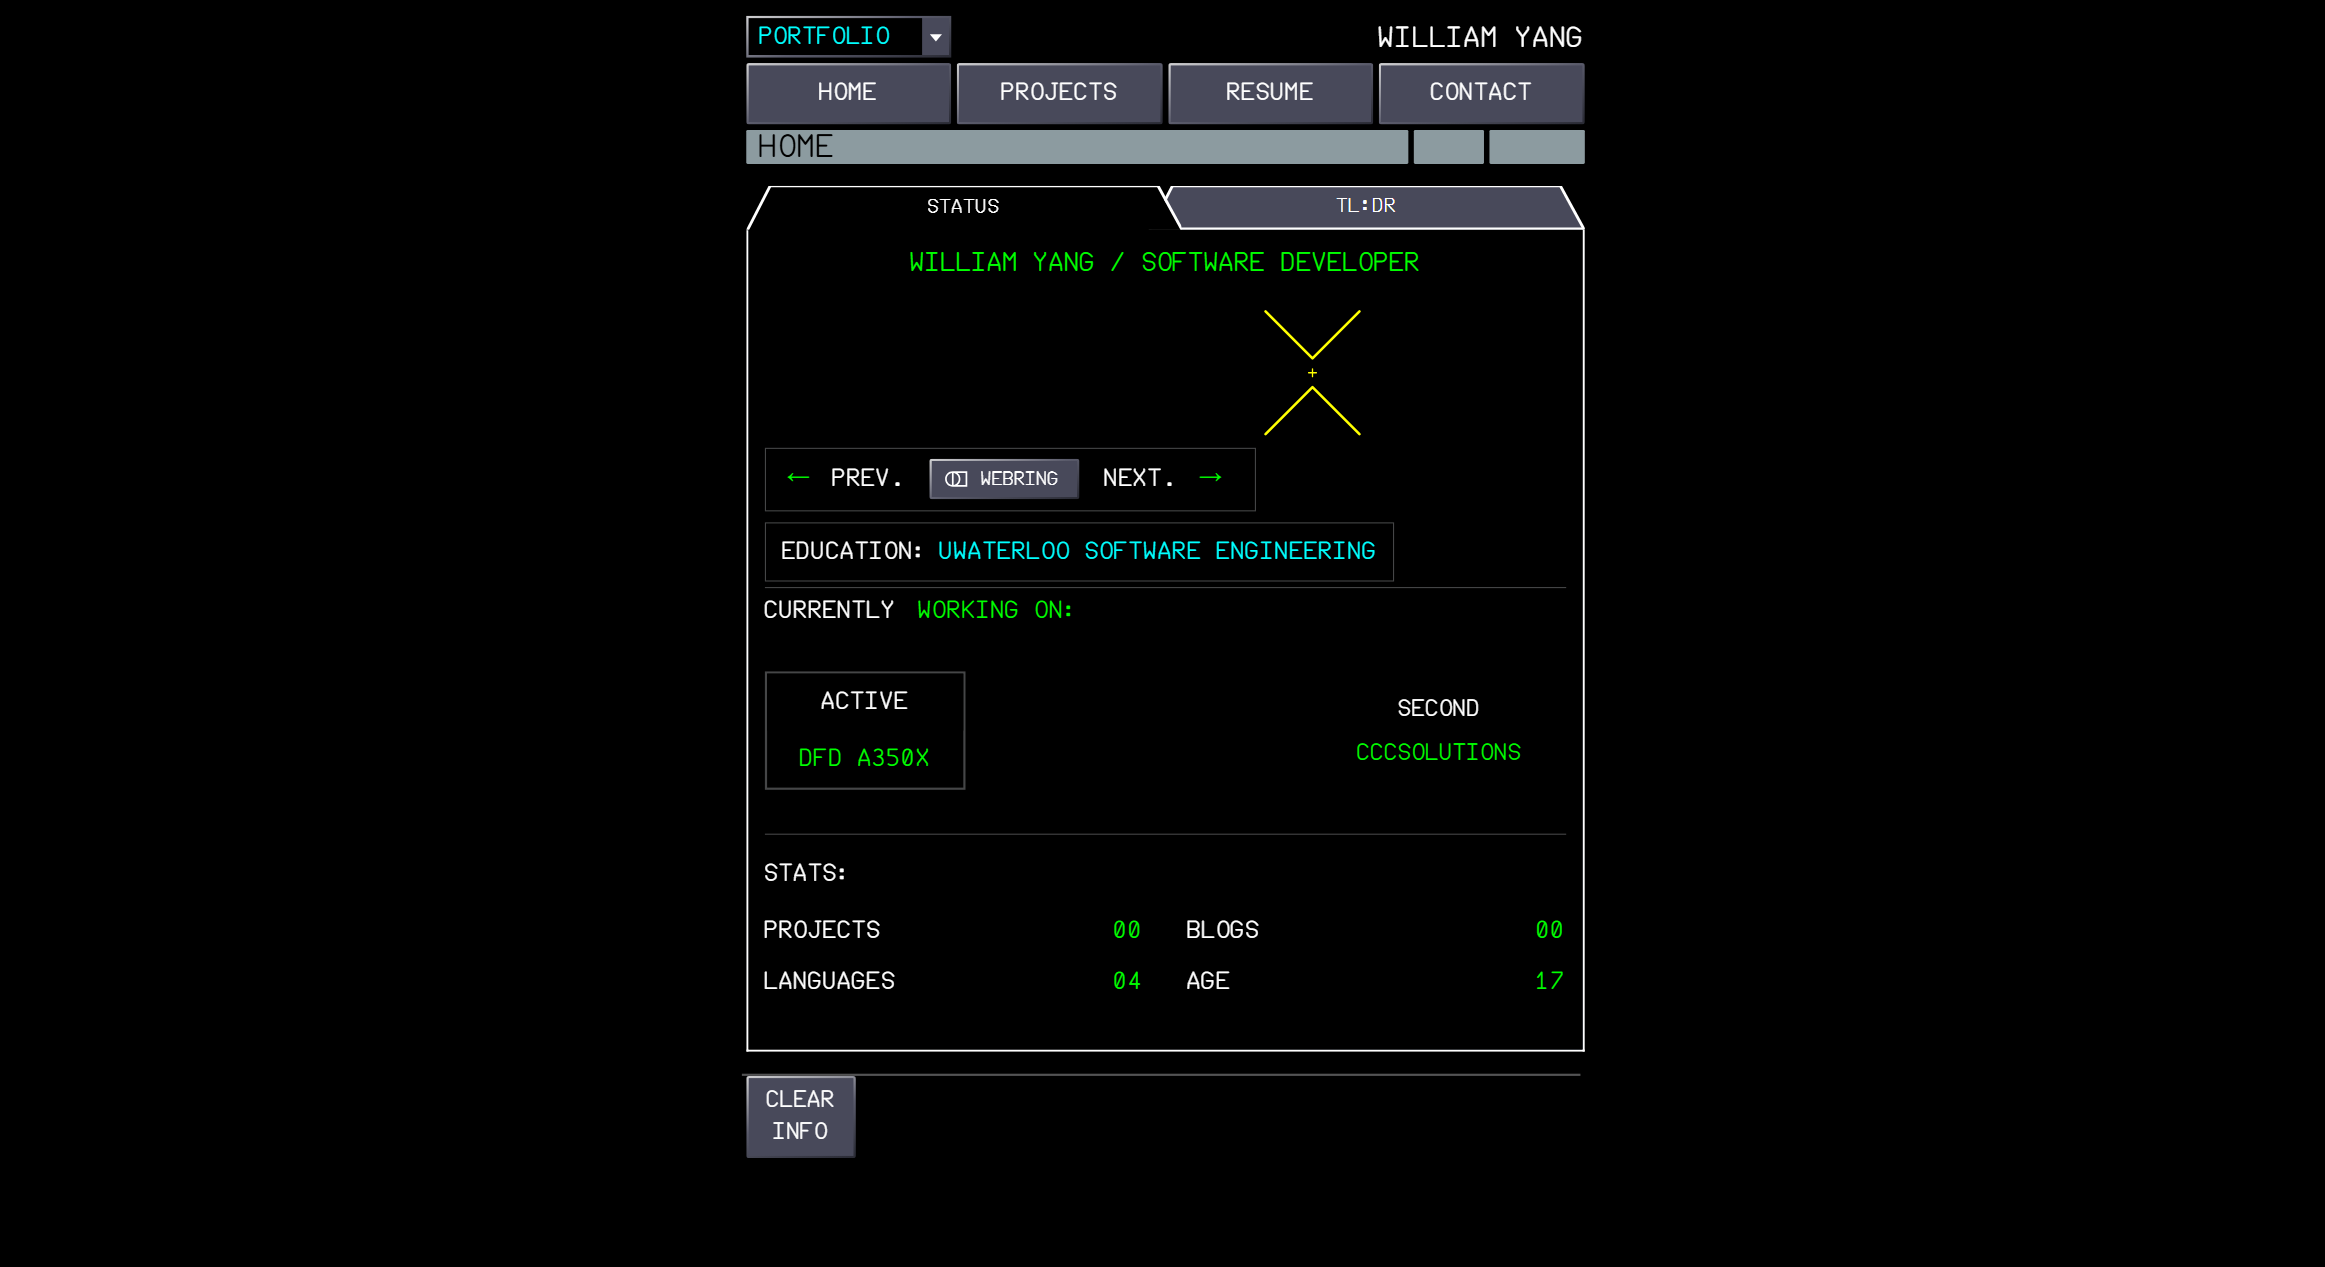
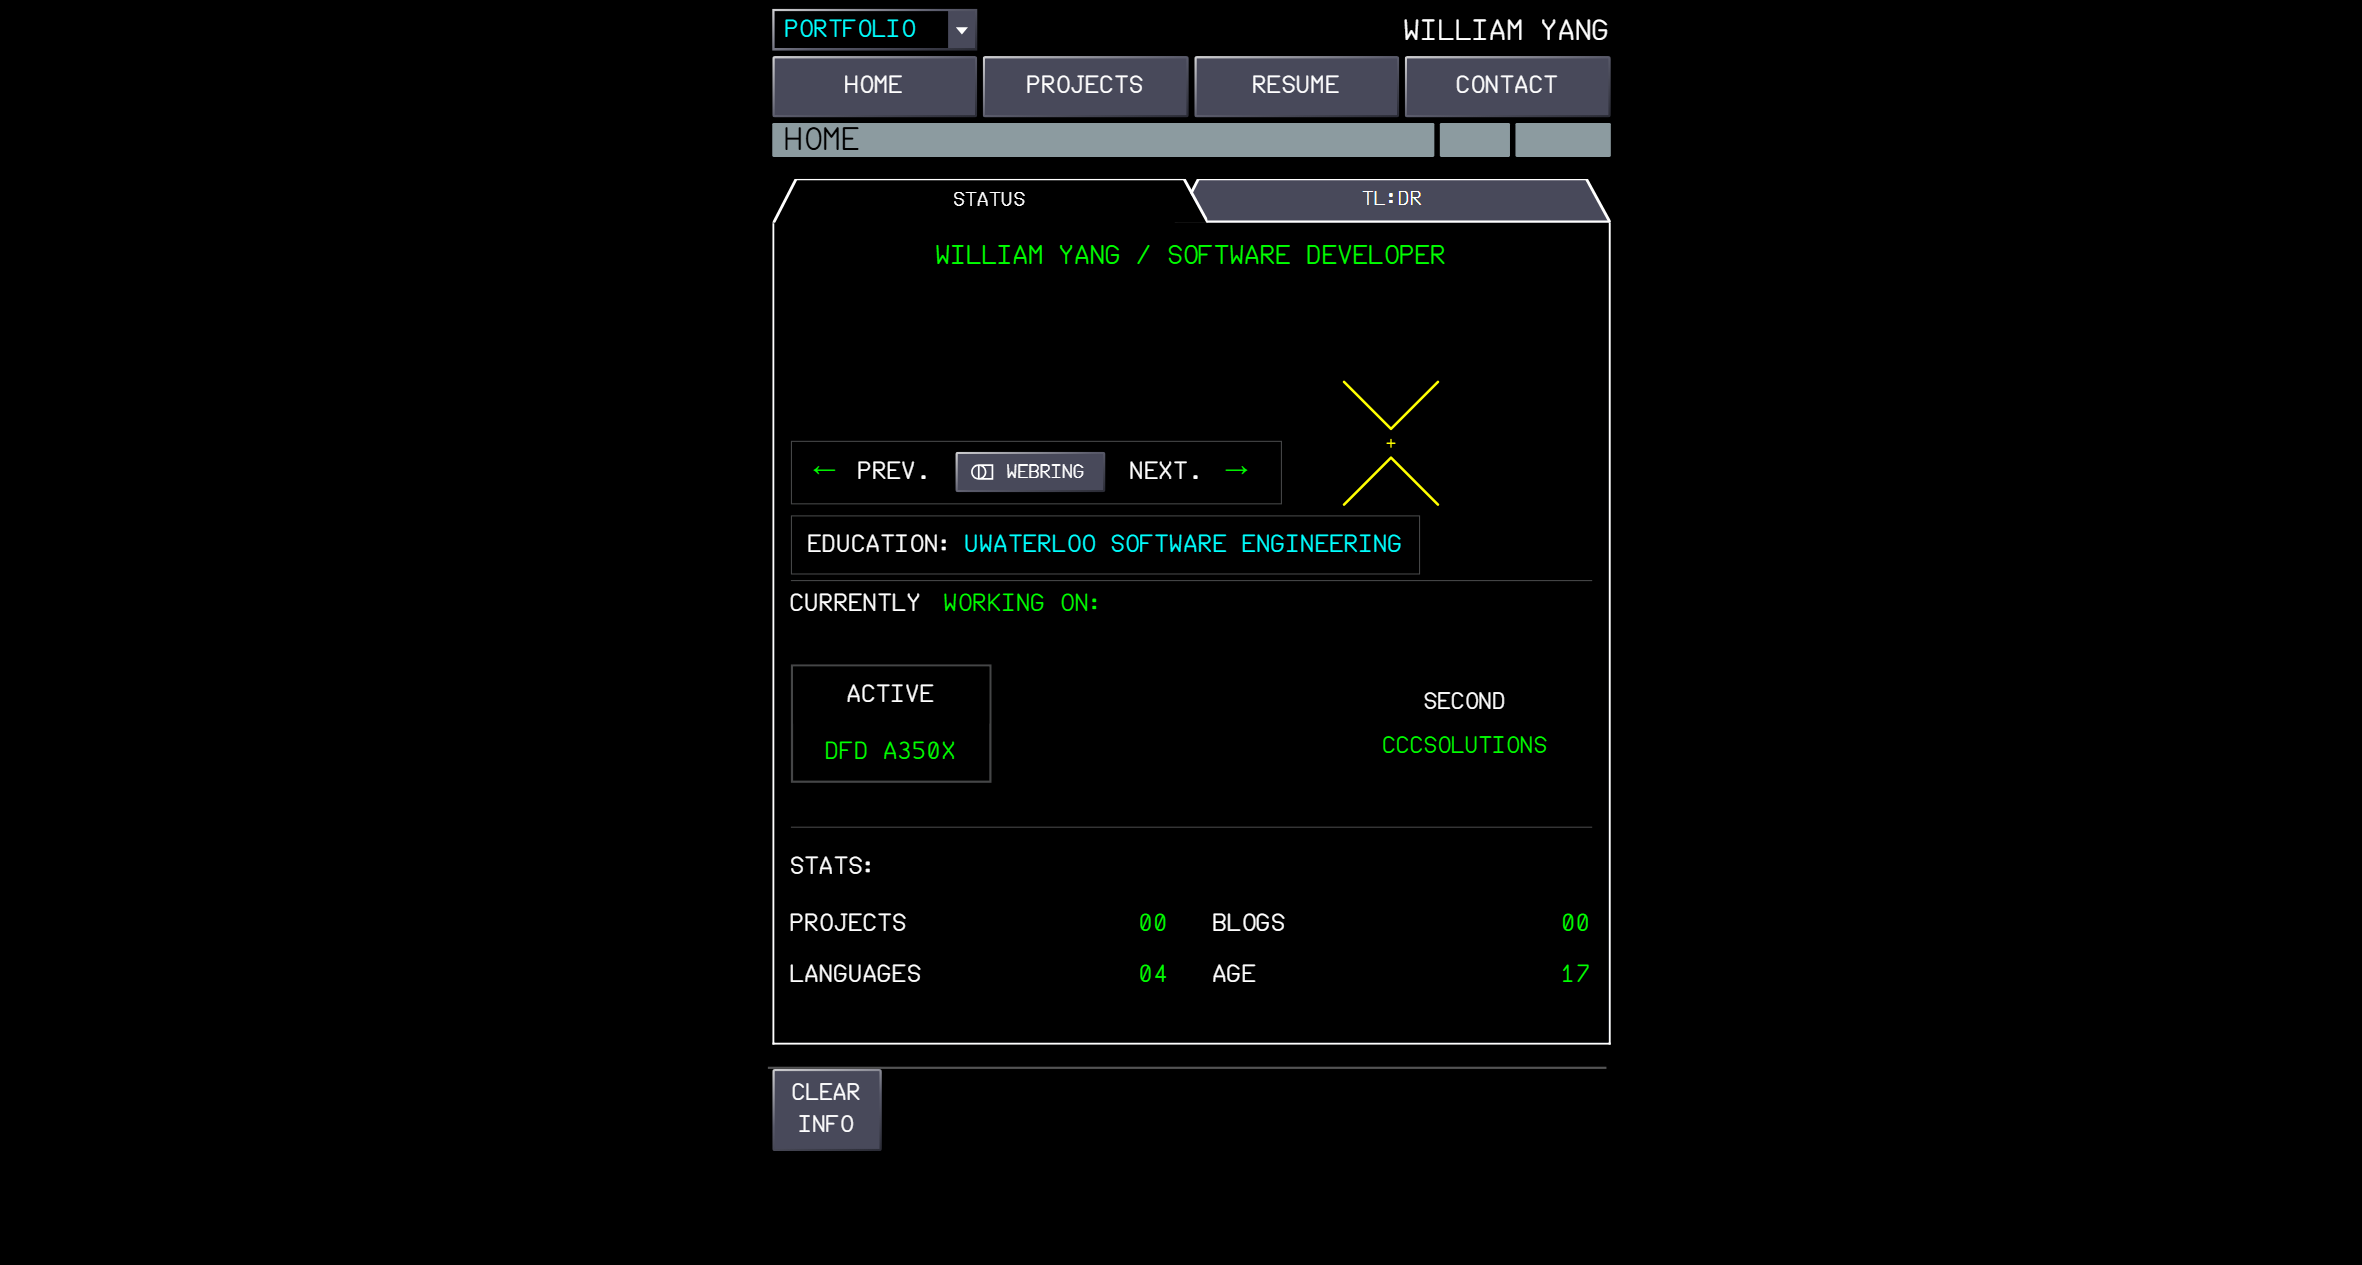
fix eslint errors

diff --git a/personal-website/src/components/PhotoDeck.tsx b/personal-website/src/components/PhotoDeck.tsx
@@ -17,17 +17,17 @@ const PhotoDeck: React.FC<PhotoDeckProps> = ({
                                              }) => {
     const [currentIndex, setCurrentIndex] = useState(0);
     const [loadedImages, setLoadedImages] = useState<Set<number>>(new Set());
-    const [imageDimensions, setImageDimensions] = useState<Map<number, { width: number, height: number }>>(new Map());
+    const [imageDimensions, setImageDimensions] = useState<Map<number, { width: number; height: number }>>(new Map());
     const [isTransitioning, setIsTransitioning] = useState(false);
     const [prevLoadedImages, setPrevLoadedImages] = useState<Set<number>>(new Set());
     const [prevImagesMap, setPrevImagesMap] = useState<string[]>([]);
-    const [activeImageDimensions, setActiveImageDimensions] = useState<{width: number, height: number} | null>(null);
+    // eslint-disable-next-line @typescript-eslint/no-unused-vars
+    const [activeImageDimensions, setActiveImageDimensions] = useState<{ width: number; height: number } | null>(null);
     const containerRef = useRef<HTMLDivElement>(null);
 
     const nextPhoto = () => {
         if (images.length <= 1 || isTransitioning) return;
 
-        // Store current dimensions before transition starts
         const currentDims = imageDimensions.get(currentIndex);
         if (currentDims) {
             setActiveImageDimensions(currentDims);
@@ -35,21 +35,17 @@ const PhotoDeck: React.FC<PhotoDeckProps> = ({
 
         setIsTransitioning(true);
 
-        // Wait for opacity transition to finish before changing image
         setTimeout(() => {
             setCurrentIndex((p) => (p + 1) % images.length);
-
-            // Keep transitioning flag for a bit longer to ensure smooth handoff
             setTimeout(() => {
                 setIsTransitioning(false);
             }, 50);
-        }, 0); // Half the opacity transition time
+        }, 0);
     };
 
     const prevPhoto = () => {
         if (images.length <= 1 || isTransitioning) return;
 
-        // Store current dimensions before transition starts
         const currentDims = imageDimensions.get(currentIndex);
         if (currentDims) {
             setActiveImageDimensions(currentDims);
@@ -57,23 +53,19 @@ const PhotoDeck: React.FC<PhotoDeckProps> = ({
 
         setIsTransitioning(true);
 
-        // Wait for opacity transition to finish before changing image
         setTimeout(() => {
             setCurrentIndex((p) => (p - 1 + images.length) % images.length);
-
-            // Keep transitioning flag for a bit longer to ensure smooth handoff
             setTimeout(() => {
                 setIsTransitioning(false);
             }, 50);
-        }, 150); // Half the opacity transition time
+        }, 150);
     };
 
     const handleImageLoad = useCallback(
         (index: number, e: React.SyntheticEvent<HTMLImageElement>) => {
             const img = e.target as HTMLImageElement;
-            setLoadedImages(prev => new Set(prev).add(index));
+            setLoadedImages((prev) => new Set(prev).add(index));
 
-            // Store *scaled dimensions* that respect CARD_W / CARD_H limits
             const aspect = img.naturalWidth / img.naturalHeight;
             let scaledW = cardWidth!;
             let scaledH = cardHeight!;
@@ -88,7 +80,7 @@ const PhotoDeck: React.FC<PhotoDeckProps> = ({
                 }
             }
 
-            setImageDimensions(prev => {
+            setImageDimensions((prev) => {
                 const newMap = new Map(prev);
                 newMap.set(index, { width: scaledW, height: scaledH });
                 return newMap;
@@ -99,17 +91,14 @@ const PhotoDeck: React.FC<PhotoDeckProps> = ({
 
     // Reset state when images change
     useEffect(() => {
-        // Save previous loaded state before resetting
         setPrevLoadedImages(loadedImages);
-        setPrevImagesMap(images.map(img => img.src));
+        setPrevImagesMap(images.map((img) => img.src));
 
         setLoadedImages(new Set());
-
-        // Don't reset image dimensions to prevent flickering between projects
         setIsTransitioning(false);
+        // eslint-disable-next-line react-hooks/exhaustive-deps
     }, [images]);
 
-    // Update active dimensions when current image changes or when dimensions are updated
     useEffect(() => {
         const dims = imageDimensions.get(currentIndex);
         if (dims && !isTransitioning) {
@@ -122,23 +111,17 @@ const PhotoDeck: React.FC<PhotoDeckProps> = ({
     const CARD_W = cardWidth;
     const CARD_H = cardHeight;
 
-    // Use previous dimensions during loading to prevent size flashing
     const containerStyle = {
         width: CARD_W,
         height: CARD_H + 50,
         margin: "0 auto",
-        transition: "width 300ms ease-out, height 300ms ease-out"
+        transition: "width 300ms ease-out, height 300ms ease-out",
     };
 
     return (
         <div className="w-full overflow-hidden">
             <div className="flex flex-col items-center">
-                <div
-                    ref={containerRef}
-                    className="relative flex items-center justify-center"
-                    style={containerStyle}
-                >
-                    {/* loading overlay - only show if no previous images are available */}
+                <div ref={containerRef} className="relative flex items-center justify-center" style={containerStyle}>
                     {!allImagesLoaded && prevLoadedImages.size === 0 && (
                         <div
                             className="absolute border-2 border-white bg-black flex flex-col items-center justify-center"
@@ -151,16 +134,13 @@ const PhotoDeck: React.FC<PhotoDeckProps> = ({
                                 zIndex: 1000,
                             }}
                         >
-                            <div className="text-airbus-green text-sm mb-2">
-                                LOADING PHOTOS
-                            </div>
+                            <div className="text-airbus-green text-sm mb-2">LOADING PHOTOS</div>
                             <div className="text-airbus-green text-xs">
                                 {loadedImages.size}/{images.length}
                             </div>
                         </div>
                     )}
 
-                    {/* Show a black placeholder with proper dimensions when transitioning between tabs */}
                     {!allImagesLoaded && prevLoadedImages.size === 0 && images.length > 0 && (
                         <div
                             className="absolute bg-black border-2 border-white shadow-lg overflow-hidden"
@@ -171,7 +151,7 @@ const PhotoDeck: React.FC<PhotoDeckProps> = ({
                                 top: "50%",
                                 transform: "translate(-50%, -50%)",
                                 opacity: 0.5,
-                                zIndex: 50
+                                zIndex: 50,
                             }}
                         />
                     )}
@@ -185,22 +165,20 @@ const PhotoDeck: React.FC<PhotoDeckProps> = ({
 
                         const imgDimensions = imageDimensions.get(index);
 
-                        // We'll use the natural dimensions for better fitting if we have them
                         let calculatedWidth = CARD_W;
+                        // eslint-disable-next-line @typescript-eslint/no-unused-vars
                         let calculatedHeight = CARD_H;
+                        // eslint-disable-next-line @typescript-eslint/no-unused-vars
                         let frameWidth = CARD_W;
 
                         if (singlePhotoView && imgDimensions) {
                             const imageAspect = imgDimensions.width / imgDimensions.height;
 
-                            // Calculate dimensions that maintain aspect ratio within container height
                             calculatedHeight = CARD_H;
                             calculatedWidth = CARD_H * imageAspect;
 
-                            // For slideshow mode, set frame width to match calculated image width
                             frameWidth = calculatedWidth;
 
-                            // Don't exceed container max width
                             if (calculatedWidth > CARD_W) {
                                 calculatedWidth = CARD_W;
                                 calculatedHeight = CARD_W / imageAspect;
@@ -210,7 +188,6 @@ const PhotoDeck: React.FC<PhotoDeckProps> = ({
 
                         const style: React.CSSProperties = singlePhotoView
                             ? {
-
                                 width: isCurrent ? imgDimensions?.width || CARD_W : imgDimensions?.width || CARD_W,
                                 height: isCurrent ? imgDimensions?.height || CARD_H : imgDimensions?.height || CARD_H,
                                 left: "50%",
@@ -229,13 +206,15 @@ const PhotoDeck: React.FC<PhotoDeckProps> = ({
                                 position: "absolute",
                                 left: "50%",
                                 top: "50%",
-                                transform: `translate(-50%, -50%) translateX(${offset * 48}px) translateY(${Math.abs(offset) * 6}px) rotate(${offset * 2.5}deg)`,
+                                transform: `translate(-50%, -50%) translateX(${offset * 48}px) translateY(${
+                                    Math.abs(offset) * 6
+                                }px) rotate(${offset * 2.5}deg)`,
                                 zIndex: 100 - Math.abs(offset),
                                 opacity: allImagesLoaded && Math.abs(offset) > 2 ? 0 : 1,
                                 pointerEvents: Math.abs(offset) > 2 ? "none" : "auto",
                                 transformOrigin: "center center",
-                                transition: allImagesLoaded ? 'transform 300ms ease-out, opacity 300ms ease-out' : 'none',
-                                display: isVisible ? "block" : "none"
+                                transition: allImagesLoaded ? "transform 300ms ease-out, opacity 300ms ease-out" : "none",
+                                display: isVisible ? "block" : "none",
                             };
 
                         return (
@@ -244,14 +223,15 @@ const PhotoDeck: React.FC<PhotoDeckProps> = ({
                                 className="absolute bg-black border-2 border-white shadow-lg overflow-hidden"
                                 style={style}
                             >
+                                {/* eslint-disable-next-line @next/next/no-img-element */}
                                 <img
                                     src={img.src}
                                     alt={`Cockpit photo ${index + 1}`}
-                                    className={`w-full h-full ${singlePhotoView ? 'object-contain' : 'object-cover'}`}
+                                    className={`w-full h-full ${singlePhotoView ? "object-contain" : "object-cover"}`}
                                     onLoad={(e) => handleImageLoad(index, e)}
                                     style={{
                                         opacity: isLoaded || isPrevLoaded ? 1 : 0,
-                                        transition: 'opacity 300ms ease-in',
+                                        transition: "opacity 300ms ease-in",
                                     }}
                                 />
                             </div>
@@ -259,34 +239,21 @@ const PhotoDeck: React.FC<PhotoDeckProps> = ({
                     })}
                 </div>
 
-                {/* Controls - show for all cases but they do nothing for single image */}
                 <div className="flex items-center justify-center gap-4 -mt-3">
-                    <Button
-                        width={32}
-                        height={32}
-                        fontSize={14}
-                        onClick={prevPhoto}
-                    >
+                    <Button width={32} height={32} fontSize={14} onClick={prevPhoto}>
                         ←
                     </Button>
-                    <Button
-                        width={32}
-                        height={32}
-                        fontSize={14}
-                        onClick={nextPhoto}
-                    >
+                    <Button width={32} height={32} fontSize={14} onClick={nextPhoto}>
                         →
                     </Button>
                 </div>
 
-                {/* Indicators - only show if multiple images */}
                 <div className="flex items-center justify-center gap-1 mt-3">
                     {images.map((_, index) => (
                         <button
                             key={index}
                             onClick={() => {
                                 if (!isTransitioning && index !== currentIndex && images.length > 1) {
-                                    // Store current dimensions before transition
                                     const currentDims = imageDimensions.get(currentIndex);
                                     if (currentDims) {
                                         setActiveImageDimensions(currentDims);
@@ -296,7 +263,6 @@ const PhotoDeck: React.FC<PhotoDeckProps> = ({
 
                                     setTimeout(() => {
                                         setCurrentIndex(index);
-
                                         setTimeout(() => {
                                             setIsTransitioning(false);
                                         }, 50);
@@ -305,9 +271,7 @@ const PhotoDeck: React.FC<PhotoDeckProps> = ({
                             }}
                             disabled={!allImagesLoaded || isTransitioning}
                             className={`w-2 h-2 rounded-full transition-transform duration-200 ${
-                                index === currentIndex
-                                    ? "bg-cyan-300"
-                                    : "bg-gray-500 hover:bg-gray-400"
+                                index === currentIndex ? "bg-cyan-300" : "bg-gray-500 hover:bg-gray-400"
                             }`}
                         />
                     ))}

diff --git a/personal-website/src/app/page.tsx b/personal-website/src/app/page.tsx
@@ -198,7 +198,7 @@ export default function Home() {
                                                 <span className="text-white mr-4 text-[17px]">NEXT.</span>
                                                 <span className="text-airbus-green mb-1 text-[17px]">→</span>
                                             </div>
-                                            <span className="text-amber-500">(INOP)</span>
+                                            <span className="text-amber-500"></span>
                                         </div>
                                     </div>
                                 </div>

diff --git a/personal-website/src/app/projects/page.tsx b/personal-website/src/app/projects/page.tsx
@@ -22,7 +22,7 @@ export default function Projects() {
     const currentProject = currentProjects[activeTab];
 
 
-    const handleLinkClick = (project) => {
+    const handleLinkClick = (project: { link?: string }) => {
         if (project.link) {
             window.open(project.link, '_blank');
         }
